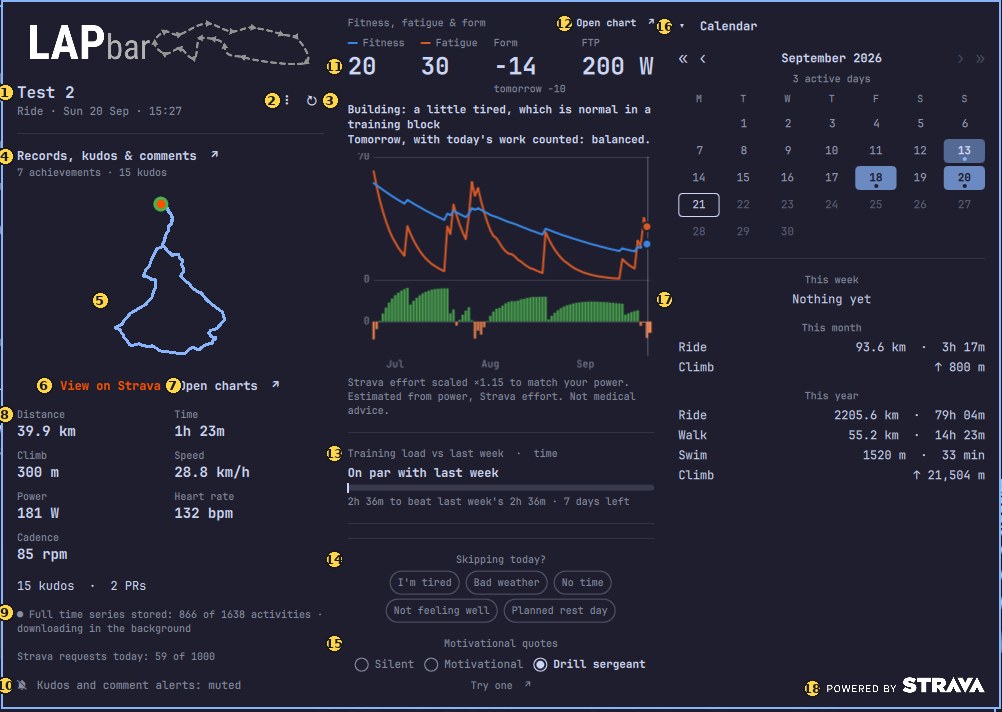
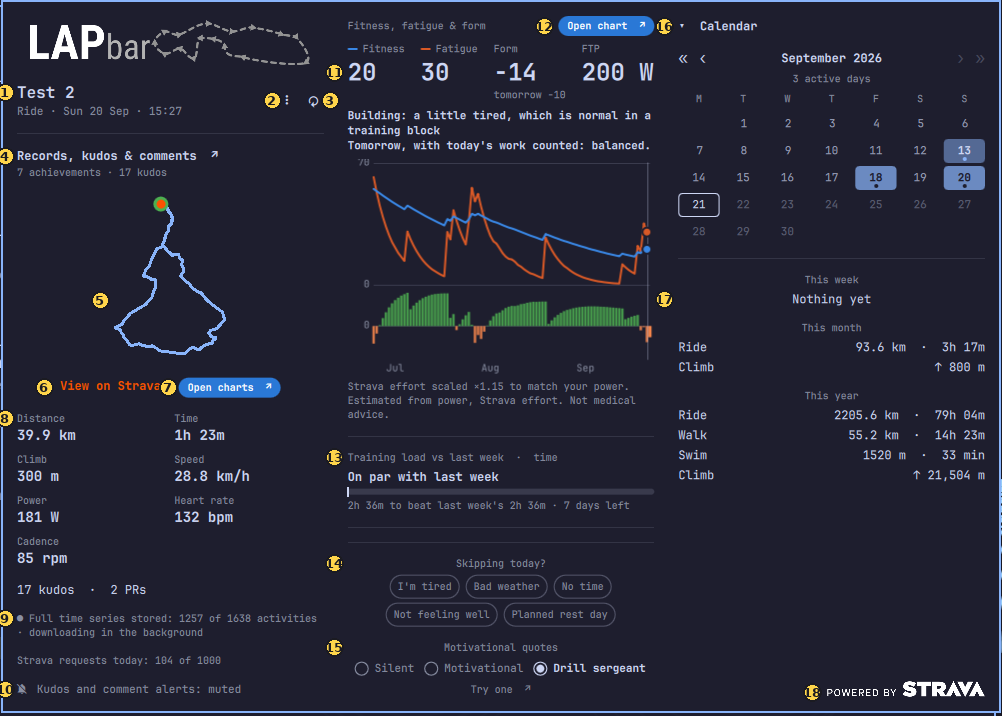
Popup: the open-chart actions are small blue rounded buttons

diff --git a/Panel.qml b/Panel.qml
@@ -1751,18 +1751,13 @@ Panel {
               }
             }
 
-            Text {
-              text: chartsProcess.running ? "Opening charts\u2026" : "Open charts  \u2197"
-              color: root.foreground
-              font.family: root.fontFamily
-              font.pixelSize: Style.font.body
-              font.bold: true
-
-              MouseArea {
-                anchors.fill: parent
-                cursorShape: Qt.PointingHandCursor
-                onClicked: root.openCharts()
-              }
+            TinyButton {                                    // opens the chart window of this ride
+              anchors.verticalCenter: parent.verticalCenter
+              label: chartsProcess.running ? "Opening charts\u2026" : "Open charts  \u2197"
+              busy: chartsProcess.running
+              fontFamily: root.fontFamily
+              fontSize: Style.font.caption
+              onClicked: root.openCharts()
             }
           }
         }
@@ -1930,29 +1925,25 @@ Panel {
 
           Item {
             width: parent.width
-            height: fitnessTitle.implicitHeight
+            height: Math.max(fitnessTitle.implicitHeight, openFitness.implicitHeight)
 
             Text {
               id: fitnessTitle
+              anchors.verticalCenter: parent.verticalCenter
               text: "Fitness, fatigue & form"
               color: root.dim
               font.family: root.fontFamily
               font.pixelSize: Style.font.caption
             }
 
-            Text {
+            TinyButton {                                    // the full-size fitness chart
+              id: openFitness
               anchors.right: parent.right
-              text: "Open chart  \u2197"
-              color: root.foreground
-              font.family: root.fontFamily
-              font.pixelSize: Style.font.caption
-              font.bold: true
-
-              MouseArea {
-                anchors.fill: parent
-                cursorShape: Qt.PointingHandCursor
-                onClicked: root.openFitnessChart()
-              }
+              anchors.verticalCenter: parent.verticalCenter
+              label: "Open chart  \u2197"
+              fontFamily: root.fontFamily
+              fontSize: Style.font.caption
+              onClicked: root.openFitnessChart()
             }
           }
 

diff --git a/TinyButton.qml b/TinyButton.qml
@@ -1,0 +1,39 @@
+import QtQuick
+
+// A small rounded button with a blue background, for the popup's "open ..." actions (the charts, the fitness chart).
+Rectangle {
+  id: btn
+
+  property string label: ""
+  property string fontFamily: "monospace"
+  property real fontSize: 12
+  property color fillColor: "#2a78d6"            // blue, with white text on both light and dark themes
+  property color hoverColor: "#3987e5"
+  property color textColor: "#ffffff"
+  property bool busy: false                      // shown dimmed while what it opened is still starting
+  signal clicked()
+
+  implicitWidth: caption.implicitWidth + 18
+  implicitHeight: caption.implicitHeight + 6
+  radius: height / 2
+  color: mouse.containsMouse && !btn.busy ? btn.hoverColor : btn.fillColor
+  opacity: btn.busy ? 0.6 : 1
+
+  Text {
+    id: caption
+    anchors.centerIn: parent
+    text: btn.label
+    color: btn.textColor
+    font.family: btn.fontFamily
+    font.pixelSize: btn.fontSize
+    font.bold: true
+  }
+
+  MouseArea {
+    id: mouse
+    anchors.fill: parent
+    hoverEnabled: true
+    cursorShape: Qt.PointingHandCursor
+    onClicked: if (!btn.busy) btn.clicked()
+  }
+}

diff --git a/scripts/popup_guide.py b/scripts/popup_guide.py
@@ -2,7 +2,7 @@
 """Draw the numbered markers of the README's popup guide on docs/screenshots/popup.png.
 
 The numbers match the list in README.md ("The popup, and where to find things") and docs/help.md. Positions are
-pixels in popup.png (1002 x 712); when the popup layout changes, retake popup.png and adjust MARKS.
+pixels in popup.png (1002 x 716); when the popup layout changes, retake popup.png and adjust MARKS.
 Needs Pillow: python3 -m pip install pillow
 """
 import subprocess
@@ -12,10 +12,10 @@ from PIL import Image, ImageDraw, ImageFont
 
 ROOT = Path(__file__).resolve().parent.parent
 MARKS = [  # number, x, y
-    (1, 5, 92), (2, 272, 100), (3, 330, 100), (4, 5, 156), (5, 100, 300), (6, 44, 385), (7, 173, 385),
-    (8, 5, 414), (9, 5, 612), (10, 5, 685),                                          # left column
-    (11, 334, 66), (12, 564, 23), (13, 334, 453), (14, 334, 559), (15, 334, 643),   # middle column
-    (16, 664, 26), (17, 664, 299), (18, 812, 688),                                  # right column
+    (1, 5, 92), (2, 272, 100), (3, 330, 100), (4, 5, 156), (5, 100, 300), (6, 44, 387), (7, 168, 387),
+    (8, 5, 418), (9, 5, 618), (10, 5, 689),                                          # left column
+    (11, 334, 72), (12, 544, 26), (13, 334, 457), (14, 334, 563), (15, 334, 647),   # middle column
+    (16, 664, 26), (17, 664, 299), (18, 812, 692),                                  # right column
 ]
 
 

diff --git a/tests/test_panel.py b/tests/test_panel.py
@@ -150,3 +150,12 @@ def test_the_chart_window_draws_tomorrows_form_as_an_outline_and_starts_on_today
     panel, shell = (root / "SeriesPanel.qml").read_text(), (root / "shell.qml").read_text()
     assert "projectedIndex" in panel and "strokeRect" in panel
     assert "projectedIndex: win.doc && win.doc.tomorrow" in shell and "doc.tomorrow ? 2 : 1" in shell and '(tomorrow)' in shell
+
+
+def test_the_open_chart_actions_are_small_blue_rounded_buttons():
+    button = (Path(__file__).resolve().parent.parent / "TinyButton.qml").read_text()
+    assert "radius: height / 2" in button and '"#2a78d6"' in button and "signal clicked()" in button
+    assert PANEL.count("TinyButton {") == 2
+    assert "onClicked: root.openCharts()" in PANEL.split("TinyButton {")[1][:400]
+    assert "onClicked: root.openFitnessChart()" in PANEL.split("TinyButton {")[2][:500]
+    assert 'View on Strava"' in PANEL and "color: root.stravaOrange" in PANEL          # the Strava link stays a plain orange link
